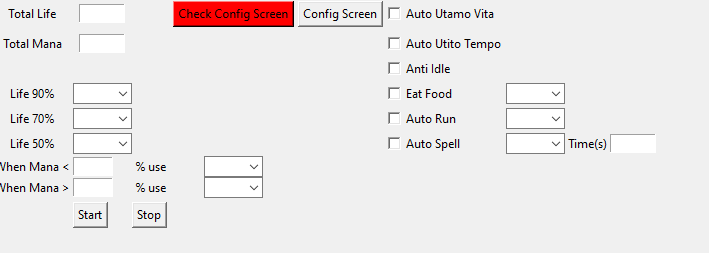
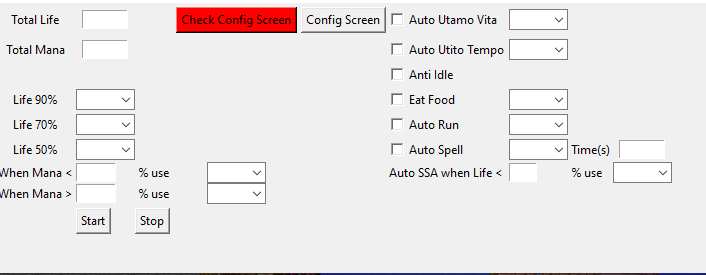
Refactor 2 applying clean code
- Add Character Model
- Update bot image on the README
- Fix bug on Auto SSA

diff --git a/controller.py b/controller.py
@@ -10,6 +10,7 @@ import tkinter as tk
 from tkinter import *
 from pynput.mouse import Listener as MouseListener
 from pynput import mouse
+from model.character import Character
 
 path = os.getcwd()
 
@@ -20,6 +21,7 @@ class Controller():
 	def __init__(self, concur, master):
 		self.master = master
 		self.concur = concur
+		self.character = Character(concur)
 
 	def returnListPointsBar(self):
 		file = open("config_screen.txt", "r")
@@ -43,52 +45,43 @@ class Controller():
 
 	def configHeal(self, master, mustEquipSSA, currentLife, currentMana):
 		concur = self.concur
-		valueTotalMana = concur.master["totalMana"].get()
-		valueTotalLife = concur.master["totalLife"].get()
-		keyLife90 = concur.master["keyPressCure90"].get().lower()
-		keyLife70 = concur.master["keyPressCure70"].get().lower()
-		keyLife50 = concur.master["keyPressCure50"].get().lower()
-		manaPercentForHeal = concur.master["manaPercent"].get()
-		manaPercentForTrain = concur.master["manaPercentForTrain"].get()
-		keyPressMana = concur.master["keyPressCureMana"].get().lower()
-		keyPressTrainMana = concur.master["keyPressTrainMana"].get().lower()
-		lifeToPullSSA = concur.master["lifeToPullSSA"].get()
-		keyToPullSSA = concur.master["keyToPullSSA"].get().lower()
+		self.character.setAllAttributes()
+		character = self.character
 		
-		if (valueTotalLife.isdigit() == False or valueTotalMana.isdigit() == False):
+		if (character.valueTotalLife.isdigit() == False or character.valueTotalMana.isdigit() == False):
 			return
 
-		if (currentLife > int(valueTotalLife)):
+		if (currentLife > int(character.valueTotalLife)):
 			valueTotalLife = currentLife
 			concur.master["totalLife"].delete(0, END)
 			concur.master["totalLife"].insert(0, str(currentLife))
 
-		if (currentMana > int(valueTotalMana)):
+		if (currentMana > int(character.valueTotalMana)):
 			valueTotalMana = currentMana
 			concur.master["totalMana"].delete(0, END)
 			concur.master["totalMana"].insert(0, str(currentMana))
 
-		currentLifePercent = (float(currentLife/int(valueTotalLife)) * 100)
-		currentManaPercent = (float(currentMana/int(valueTotalMana)) * 100)
+		currentLifePercent = (float(currentLife/int(character.valueTotalLife)) * 100)
+		currentManaPercent = (float(currentMana/int(character.valueTotalMana)) * 100)
 
-		if (currentLifePercent < int(lifeToPullSSA) and len(mustEquipSSA) == 0):
-			pyautogui.press(keyToPullSSA)
+		if (character.lifeToPullSSA.isdigit() and currentLifePercent < int(character.lifeToPullSSA) and len(mustEquipSSA) == 0):
+			pyautogui.press(character.keyToPullSSA)
 
-		if (currentLifePercent <= 50 and keyLife50 != " "):
-			pyautogui.press(keyLife50)
-		elif (currentLifePercent <= 70 and keyLife70 != " "):
-			pyautogui.press(keyLife70)
-		elif (currentLifePercent <= 90 and keyLife90 != " "):
-			pyautogui.press(keyLife90)
+		if (currentLifePercent <= 50 and character.keyLife50 != " "):
+			pyautogui.press(character.keyLife50)
+		elif (currentLifePercent <= 70 and character.keyLife70 != " "):
+			pyautogui.press(character.keyLife70)
+		elif (currentLifePercent <= 90 and character.keyLife90 != " "):
+			pyautogui.press(character.keyLife90)
 		
-		if (manaPercentForHeal.isdigit() == False and manaPercentForTrain.isdigit() == False):
+		if (character.manaPercentForHeal.isdigit() == False and character.manaPercentForTrain.isdigit() == False):
 			return
 
-		if (manaPercentForHeal.isdigit() and currentManaPercent <= int(manaPercentForHeal) and keyPressMana != " "):
-			pyautogui.press(keyPressMana)
+		if (character.manaPercentForHeal.isdigit() and currentManaPercent <= int(character.manaPercentForHeal) and character.keyPressMana != " "):
+			pyautogui.press(character.keyPressMana)
 
-		if (manaPercentForTrain.isdigit() and currentManaPercent > int(manaPercentForTrain) and keyPressTrainMana != " "):
-			pyautogui.press(keyPressTrainMana)
+		if (character.manaPercentForTrain.isdigit() and currentManaPercent > int(character.manaPercentForTrain) and character.keyPressTrainMana != " "):
+			pyautogui.press(character.keyPressTrainMana)
 
 	def confirmIsTarget(self, image):
 		left = pyautogui.locateAll(path + '/images/left.png', image, grayscale=True, confidence=.85)
@@ -159,7 +152,7 @@ class Controller():
 			FLAG_TIME_AUTO_UTAMO += 1
 			if (concur.paused == True):
 				break
-			time.sleep(0.2)
+			time.sleep(0.1)
 			im=pyautogui.screenshot()
 			life = im
 			mana = im
@@ -183,7 +176,7 @@ class Controller():
 			lstHasSpeed = list(hasSpeed)
 			hasUtamo = pyautogui.locateAll(path + '/images/utamo.png', food, grayscale=True, confidence=.75)
 			listHasUtamo = list(hasUtamo)
-			hasUtito = pyautogui.locateAll(path + '/images/utamo.png', food, grayscale=True, confidence=.75)
+			hasUtito = pyautogui.locateAll(path + '/images/utito.jpeg', food, grayscale=True, confidence=.75)
 			listHasUtito = list(hasUtito)
 			hasSSA = pyautogui.locateAll(path + '/images/ssa.png', im, grayscale=True, confidence=.90)
 			listHasSSA = list(hasSSA)

diff --git a/model/character.py b/model/character.py
@@ -1,0 +1,29 @@
+class Character():
+	def __init__(self, concur):
+		self.concur = concur
+		self.valueTotalMana = None
+		self.valueTotalLife = None
+		self.keyLife90 = None
+		self.keyLife70 = None
+		self.keyLife50 = None
+		self.manaPercentForHeal = None
+		self.manaPercentForTrain = None
+		self.keyPressMana = None
+		self.keyPressTrainMana = None
+		self.lifeToPullSSA = None
+		self.keyToPullSSA = None
+
+	def setAllAttributes(self):
+		concur = self.concur
+		self.valueTotalMana = concur.master["totalMana"].get()
+		self.valueTotalLife = concur.master["totalLife"].get()
+		self.keyLife90 = concur.master["keyPressCure90"].get().lower()
+		self.keyLife70 = concur.master["keyPressCure70"].get().lower()
+		self.keyLife50 = concur.master["keyPressCure50"].get().lower()
+		self.manaPercentForHeal = concur.master["manaPercent"].get()
+		self.manaPercentForTrain = concur.master["manaPercentForTrain"].get()
+		self.keyPressMana = concur.master["keyPressCureMana"].get().lower()
+		self.keyPressTrainMana = concur.master["keyPressTrainMana"].get().lower()
+		self.lifeToPullSSA = concur.master["lifeToPullSSA"].get()
+		self.keyToPullSSA = concur.master["keyToPullSSA"].get().lower()
+	
